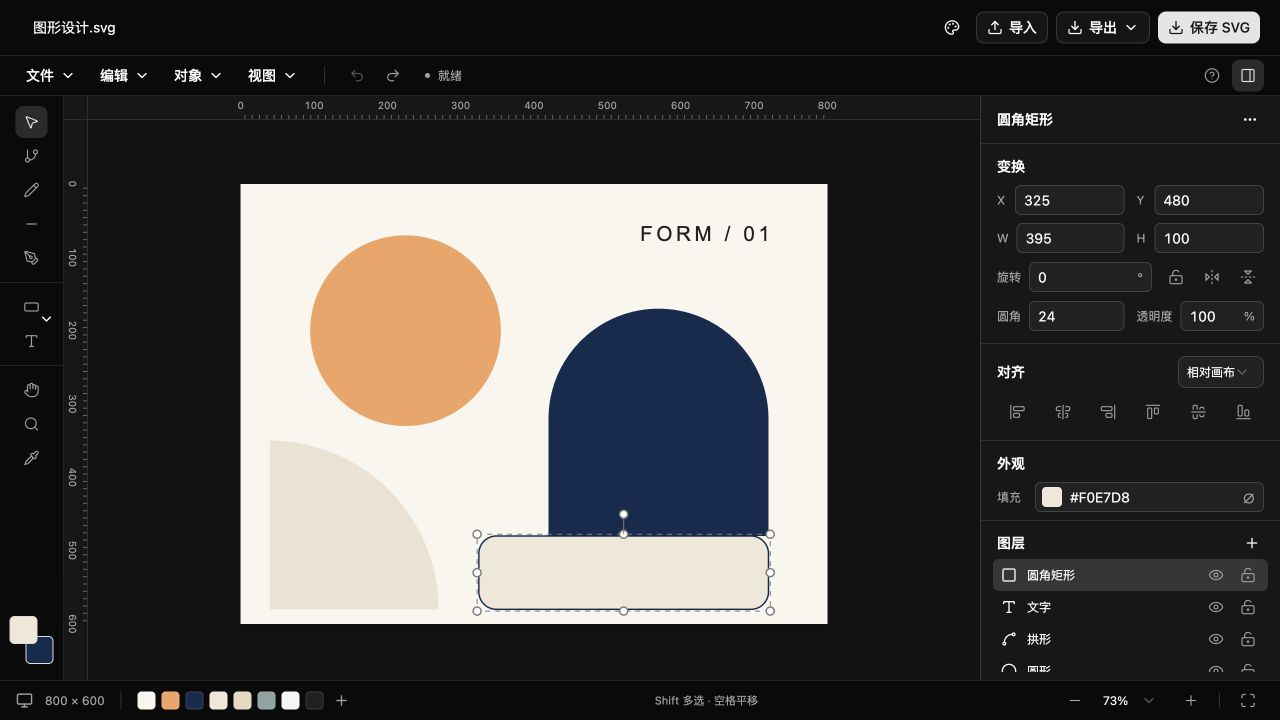
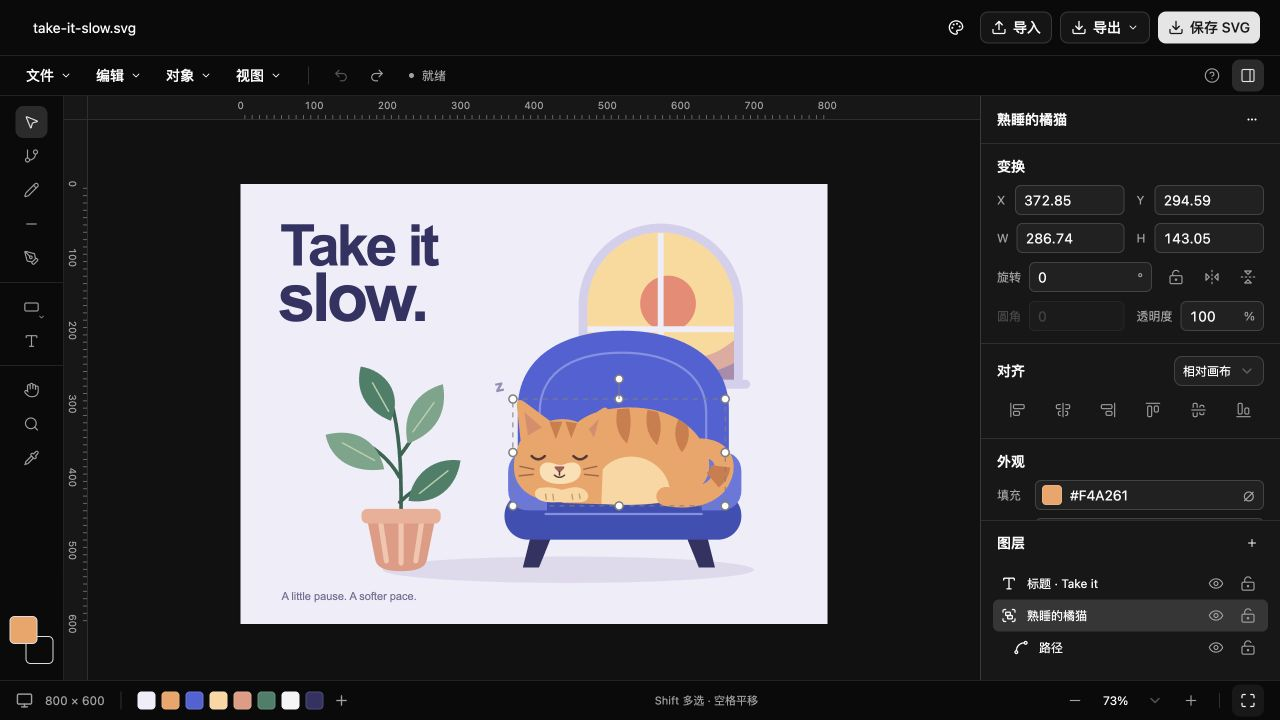
feat: replace default artwork with editable sleeping cat illustration

diff --git a/src/editor/documents.ts b/src/editor/documents.ts
@@ -1,15 +1,7 @@
 import DOMPurify from "dompurify";
+import sampleSvg from "./sample.svg?raw";
 
-export const SAMPLE_SVG = `<svg xmlns="http://www.w3.org/2000/svg" xmlns:svg="http://www.w3.org/2000/svg" width="800" height="600" viewBox="0 0 800 600">
-  <g id="artwork" class="layer"><title>图层 1</title>
-    <rect id="paper" x="0" y="0" width="800" height="600" fill="#faf6ee" data-name="背景" data-locked="true"/>
-    <path id="quarter" d="M40 350 A230 230 0 0 1 270 580 H40Z" fill="#ece2d2" data-name="扇形"/>
-    <circle id="circle" cx="225" cy="200" r="130" fill="#f4a261" data-name="圆形"/>
-    <path id="arch" d="M420 480 V320 A150 150 0 0 1 720 320 V480Z" fill="#132c50" data-name="拱形"/>
-    <text id="heading" x="545" y="78" font-family="Arial, sans-serif" font-size="28" letter-spacing="5" fill="#202020" data-name="文字">FORM / 01</text>
-    <rect id="rounded-rect" x="325" y="480" width="395" height="100" rx="24" fill="#f0e7d8" stroke="#132c50" stroke-width="2" data-name="圆角矩形"/>
-  </g>
-</svg>`;
+export const SAMPLE_SVG = sampleSvg;
 
 export function blankSvg(width = 800, height = 600) {
   return `<svg xmlns="http://www.w3.org/2000/svg" width="${width}" height="${height}" viewBox="0 0 ${width} ${height}"><g class="layer"><title>图层 1</title></g></svg>`;

diff --git a/src/__tests__/documents.test.ts b/src/__tests__/documents.test.ts
@@ -6,7 +6,12 @@ const parse = (source: string) =>
 describe("SVG 导入边界", () => {
   it("保留可编辑图形、图层名称、锁定信息与原始尺寸", () => {
     const svg = parse(SAMPLE_SVG);
-    expect(svg.querySelectorAll("rect,circle,path,text")).toHaveLength(6);
+    expect(svg.querySelector("#cat")?.getAttribute("data-name")).toBe(
+      "熟睡的橘猫",
+    );
+    expect(svg.querySelector("#cat-body")?.localName).toBe("path");
+    expect(svg.querySelector("#heading")?.textContent).toBe("Take it");
+    expect(svg.querySelector("image")).toBeNull();
     expect(svg.querySelector("g")?.classList.contains("layer")).toBe(true);
     expect(svg.querySelector("#paper")?.getAttribute("data-locked")).toBe(
       "true",

diff --git a/src/editor/session.ts b/src/editor/session.ts
@@ -50,7 +50,9 @@ export class EditorSession {
     for (const event of ["changed", "sourcechanged"]) {
       this.canvas.bind(event, () => this.refresh(true));
     }
-    const initial = this.canvas.getSvgContent().querySelector("#rounded-rect");
+    const initial = source
+      ? null
+      : this.canvas.getSvgContent().querySelector("#cat");
     if (initial) this.canvas.selectOnly([initial], true);
     this.refresh(false);
   }

diff --git a/src/components/status-bar.tsx b/src/components/status-bar.tsx
@@ -15,14 +15,14 @@ export function StatusBar({
   run(action: () => void): void;
 }) {
   const colors = [
-    "#faf6ee",
+    "#f0edf9",
     "#f4a261",
-    "#132c50",
-    "#f0e7d8",
-    "#e8d9bf",
-    "#8ba4a0",
+    "#5063d8",
+    "#ffd59e",
+    "#e89882",
+    "#3f8068",
     "#f5f5f5",
-    "#202020",
+    "#343264",
   ];
   return (
     <footer className="status-bar">

diff --git a/src/app.tsx b/src/app.tsx
@@ -43,7 +43,7 @@ export function App() {
     session?.subscribe ?? subscribeEmpty,
     session?.getSnapshot ?? getEmpty,
   );
-  const [name, setName] = useState("图形设计.svg");
+  const [name, setName] = useState("take-it-slow.svg");
   const [rulers, setRulers] = useState(true),
     [checker, setChecker] = useState(false),
     [inspector, setInspector] = useState(true);

diff --git a/README.en.md b/README.en.md
@@ -1,6 +1,6 @@
 # SVG Studio
 
-[简体中文](README.md) · [Known issues](docs/known-issues.md) · [Engine integration](docs/engine.md)
+[简体中文](README.md) · [Sample SVG](src/editor/sample.svg) · [Known issues](docs/known-issues.md) · [Engine integration](docs/engine.md)
 
 [![CI](https://github.com/Hello-job/svg-studio/actions/workflows/ci.yml/badge.svg)](https://github.com/Hello-job/svg-studio/actions/workflows/ci.yml)
 [![License: MIT](https://img.shields.io/badge/License-MIT-blue.svg)](LICENSE)

diff --git a/README.md b/README.md
@@ -1,6 +1,6 @@
 # SVG Studio
 
-[English](README.en.md) · [已知问题](docs/known-issues.md) · [引擎接入](docs/engine.md)
+[English](README.en.md) · [示例 SVG](src/editor/sample.svg) · [已知问题](docs/known-issues.md) · [引擎接入](docs/engine.md)
 
 [![CI](https://github.com/Hello-job/svg-studio/actions/workflows/ci.yml/badge.svg)](https://github.com/Hello-job/svg-studio/actions/workflows/ci.yml)
 [![License: MIT](https://img.shields.io/badge/License-MIT-blue.svg)](LICENSE)
